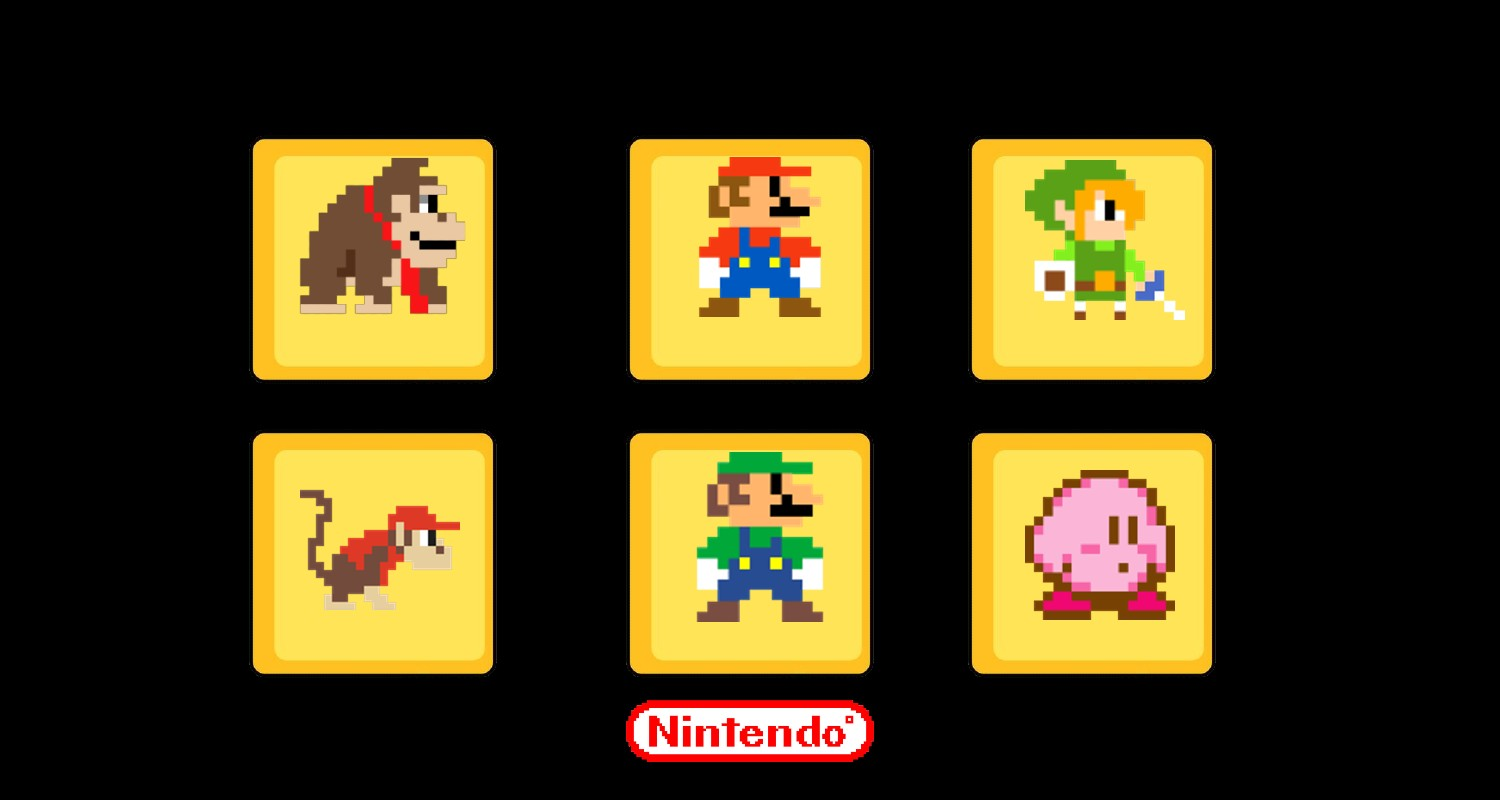
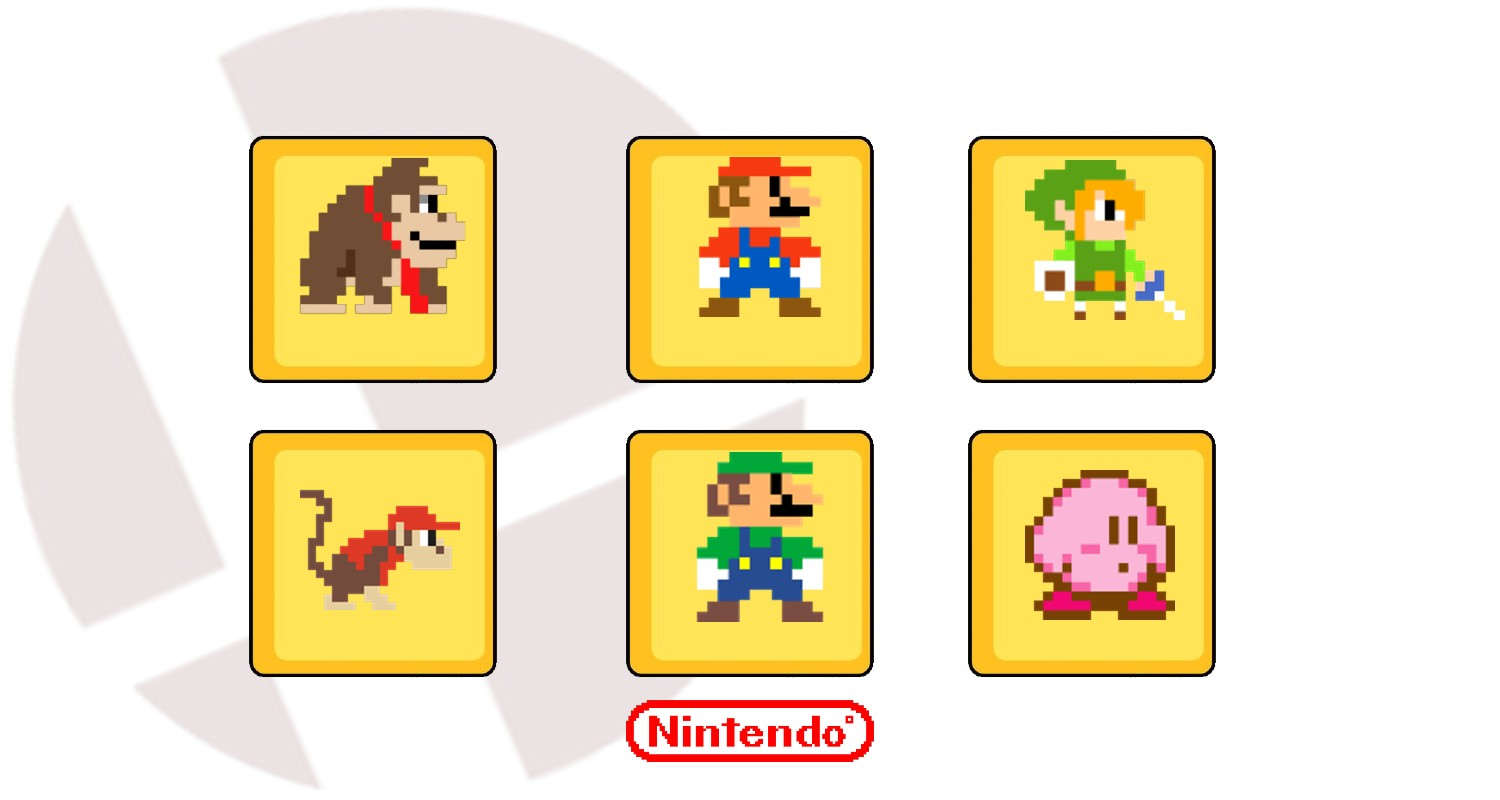
Changed canvas position

diff --git a/style.css b/style.css
@@ -1,0 +1,10 @@
+canvas {
+  position: absolute;
+  left: 40%;
+  top: 40%;
+  transform: translate(-40%, -40%);
+  width: 40%;
+  height: 40%;
+  padding: 20px;
+  text-align: center;
+}
